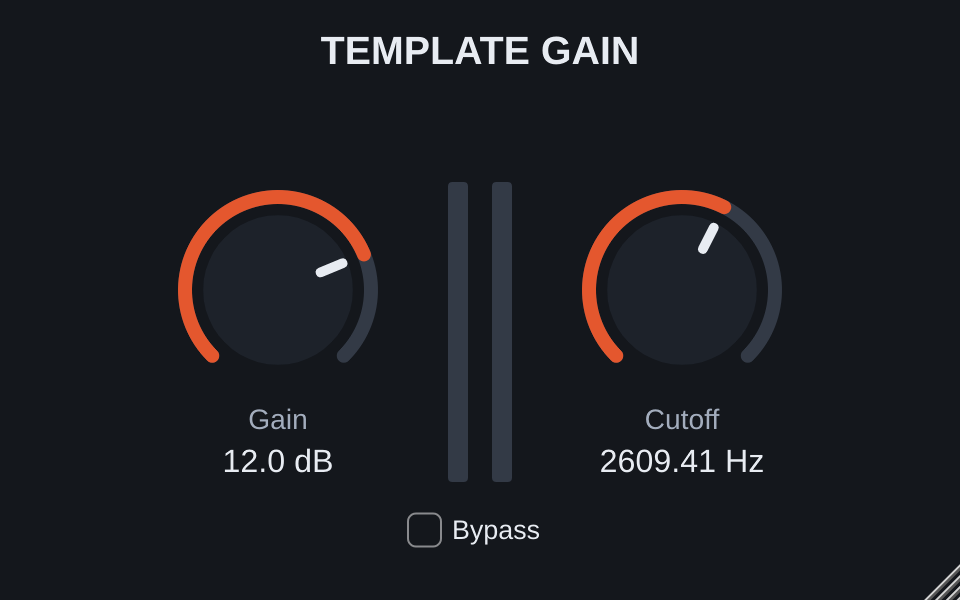
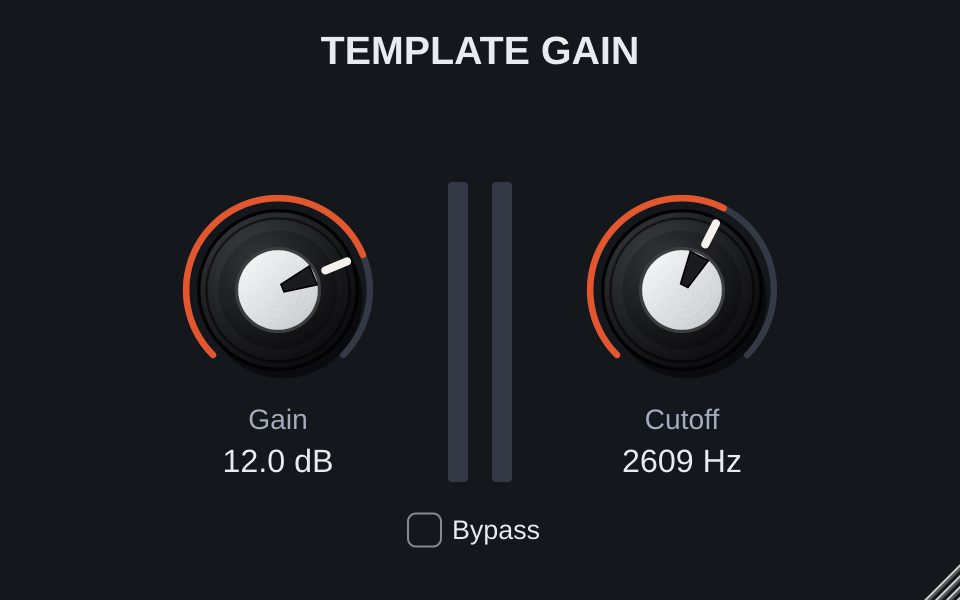
Skirted bakelite knob (HTML + JUCE), whole-number param formatting fix
Claude-Session: https://claude.ai/code/session_01SzB2qFQArXhuppk4rEBZ5Y

Changed region(s): [[0.1875, 0.3, 0.4062, 0.63], [0.5938, 0.3, 0.8125, 0.63], [0.625, 0.75, 0.8125, 0.81]]

diff --git a/ui/index.html b/ui/index.html
@@ -145,6 +145,9 @@ body.dragging #cables .hit,body.dragging #cables .plug{pointer-events:none}
   <defs>
     <radialGradient id="kSkirt" cx=".35" cy=".3" r=".9"><stop offset="0" stop-color="#3d3e43"/><stop offset=".6" stop-color="#18181a"/><stop offset="1" stop-color="#060607"/></radialGradient>
     <radialGradient id="kCap" cx=".38" cy=".3" r=".85"><stop offset="0" stop-color="#7d7e84"/><stop offset=".45" stop-color="#2b2b2e"/><stop offset="1" stop-color="#0a0a0b"/></radialGradient>
+    <radialGradient id="kBody" cx=".36" cy=".3" r=".95"><stop offset="0" stop-color="#34353a"/><stop offset=".55" stop-color="#141416"/><stop offset="1" stop-color="#050506"/></radialGradient>
+    <linearGradient id="kAl" x1="0" y1="0" x2="1" y2="1"><stop offset="0" stop-color="#f4f5f6"/><stop offset=".3" stop-color="#b9bcc1"/><stop offset=".55" stop-color="#e3e5e8"/><stop offset=".8" stop-color="#8d9096"/><stop offset="1" stop-color="#c9ccd0"/></linearGradient>
+    <linearGradient id="kWedge" x1="0" y1="0" x2="1" y2="0"><stop offset="0" stop-color="#050506"/><stop offset=".5" stop-color="#2a2b2f"/><stop offset="1" stop-color="#050506"/></linearGradient>
     <linearGradient id="nut" x1="0" y1="0" x2="1" y2="1"><stop offset="0" stop-color="#f3f5f6"/><stop offset=".5" stop-color="#899096"/><stop offset="1" stop-color="#d6dadd"/></linearGradient>
     <radialGradient id="hole" cx=".5" cy=".5" r=".5"><stop offset="0" stop-color="#000"/><stop offset=".72" stop-color="#0a0a0a"/><stop offset="1" stop-color="#40444a"/></radialGradient>
     <radialGradient id="chrome" cx=".35" cy=".3" r=".9"><stop offset="0" stop-color="#fff"/><stop offset=".5" stop-color="#a0a6ab"/><stop offset="1" stop-color="#4b4f54"/></radialGradient>
@@ -313,13 +316,21 @@ function knobSVG(k){
     const e = (deg,txt) => { const a=deg*Math.PI/180; return `<text class="kt" text-anchor="middle" dominant-baseline="central" x="${f2(Math.sin(a)*28.4)}" y="${f2(-Math.cos(a)*28.4)}">${txt}</text>`; };
     t += e(-135,'0') + e(135,'10');
   }
+  // Skirted bakelite knob: flared black skirt, brushed-aluminium cap, pointer wedge, white line down the skirt.
+  let brush = '';
+  for(const r of [2.2,3.6,5,6.4,7.8]) brush += `<circle r="${r}" fill="none" stroke="${r%2>1?'#fff':'#000'}" stroke-opacity=".10" stroke-width=".45"/>`;
   return `<svg viewBox="-31 -31 62 62" aria-hidden="true">${t}
     <circle cx="1.3" cy="2.2" r="19.5" fill="#000" opacity=".5"/>
-    <circle r="19.5" fill="url(#kSkirt)" stroke="#040405" stroke-width=".8"/>
-    <circle r="18" fill="none" stroke="#505156" stroke-width="2.3" stroke-dasharray="1.15 1.05" opacity=".95"/>
-    <circle r="14.4" fill="url(#kCap)" stroke="#000" stroke-width=".7"/>
-    <ellipse cx="-3.6" cy="-6.2" rx="7" ry="3.6" fill="#fff" opacity=".1"/>
-    <g class="ptr"><line x1="0" y1="-4.5" x2="0" y2="-14" stroke="#f7f3e5" stroke-width="2.1" stroke-linecap="round"/></g>
+    <circle r="19.5" fill="url(#kSkirt)" stroke="#020203" stroke-width=".8"/>
+    <circle r="17.6" fill="none" stroke="#000" stroke-opacity=".55" stroke-width=".6"/>
+    <path d="M-15.5 -10.5 A18.7 18.7 0 0 1 -4 -18" fill="none" stroke="#fff" stroke-opacity=".16" stroke-width="1.1" stroke-linecap="round"/>
+    <circle r="14.6" fill="url(#kBody)" stroke="#000" stroke-width=".7"/>
+    <circle r="10.2" fill="url(#kAl)" stroke="#3b3d41" stroke-width=".8"/>${brush}
+    <g class="ptr">
+      <line x1="0" y1="-12.6" x2="0" y2="-18.4" stroke="#f4f2ea" stroke-width="2" stroke-linecap="round"/>
+      <path d="M-2.5 -9.4 L2.5 -9.4 L1 -1.2 L-1 -1.2 Z" fill="url(#kWedge)" stroke="#000" stroke-width=".4"/>
+      <path d="M-.7 -8.6 L-.5 -2" stroke="#fff" stroke-opacity=".25" stroke-width=".5" stroke-linecap="round" fill="none"/>
+    </g>
   </svg>`;
 }
 function jackSVG(){

diff --git a/vst3/template/Source/PluginEditor.cpp b/vst3/template/Source/PluginEditor.cpp
@@ -8,33 +8,73 @@ using namespace tokens;
 void KnobLookAndFeel::drawRotarySlider (juce::Graphics& g, int x, int y, int w, int h, float pos,
                                         float startAngle, float endAngle, juce::Slider& s)
 {
+    // Skirted bakelite knob: flared black skirt, brushed-aluminium cap, pointer wedge,
+    // white indicator line running down the skirt. Proportions follow the 62-unit design grid.
     auto bounds = juce::Rectangle<float> ((float) x, (float) y, (float) w, (float) h).reduced (4.0f);
-    const float r = juce::jmin (bounds.getWidth(), bounds.getHeight()) * 0.5f;
+    const float R = juce::jmin (bounds.getWidth(), bounds.getHeight()) * 0.5f;
     const auto c = bounds.getCentre();
-    const float thick = r * 0.14f;
-    const float arcR = r - thick * 0.5f;
+    const float u = R / 24.6f;                         // 1 design unit in pixels
     const float angle = startAngle + pos * (endAngle - startAngle);
 
+    // value track just outside the skirt
+    const float trackR = 22.6f * u;
     juce::Path track, value;
-    track.addCentredArc (c.x, c.y, arcR, arcR, 0.0f, startAngle, endAngle, true);
-    value.addCentredArc (c.x, c.y, arcR, arcR, 0.0f, startAngle, angle, true);
+    track.addCentredArc (c.x, c.y, trackR, trackR, 0.0f, startAngle, endAngle, true);
+    value.addCentredArc (c.x, c.y, trackR, trackR, 0.0f, startAngle, angle, true);
     g.setColour (color_track);
-    g.strokePath (track, juce::PathStrokeType (thick, juce::PathStrokeType::curved, juce::PathStrokeType::rounded));
+    g.strokePath (track, juce::PathStrokeType (1.6f * u, juce::PathStrokeType::curved, juce::PathStrokeType::rounded));
     g.setColour (s.isEnabled() ? color_accent_main : color_accent_dim);
-    g.strokePath (value, juce::PathStrokeType (thick, juce::PathStrokeType::curved, juce::PathStrokeType::rounded));
+    g.strokePath (value, juce::PathStrokeType (1.6f * u, juce::PathStrokeType::curved, juce::PathStrokeType::rounded));
 
-    const float capR = r - thick * 1.8f;
-    g.setColour (color_bg_panel);
-    g.fillEllipse (c.x - capR, c.y - capR, capR * 2.0f, capR * 2.0f);
-    juce::Path tick;
-    tick.addRoundedRectangle (-thick * 0.35f, -capR, thick * 0.7f, capR * 0.45f, thick * 0.35f);
-    g.setColour (color_text_primary);
-    g.fillPath (tick, juce::AffineTransform::rotation (angle).translated (c.x, c.y));
+    auto disc = [&] (float r) { return juce::Rectangle<float> (c.x - r * u, c.y - r * u, 2 * r * u, 2 * r * u); };
+
+    g.setColour (juce::Colours::black.withAlpha (0.5f));                       // drop shadow
+    g.fillEllipse (disc (19.5f).translated (1.3f * u, 2.2f * u));
+
+    g.setGradientFill (juce::ColourGradient (juce::Colour (0xff3d3e43), c.x - 6 * u, c.y - 8 * u,
+                                             juce::Colour (0xff060607), c.x + 16 * u, c.y + 16 * u, true));
+    g.fillEllipse (disc (19.5f));                                              // skirt
+    g.setColour (juce::Colour (0xff020203));
+    g.drawEllipse (disc (19.5f), 0.8f * u);
+    g.setColour (juce::Colours::black.withAlpha (0.55f));
+    g.drawEllipse (disc (17.6f), 0.6f * u);                                    // flare edge
+
+    g.setGradientFill (juce::ColourGradient (juce::Colour (0xff34353a), c.x - 5 * u, c.y - 7 * u,
+                                             juce::Colour (0xff050506), c.x + 14 * u, c.y + 14 * u, true));
+    g.fillEllipse (disc (14.6f));                                              // upper body
+
+    g.setGradientFill (juce::ColourGradient (juce::Colour (0xfff4f5f6), c.x - 8 * u, c.y - 8 * u,
+                                             juce::Colour (0xffc9ccd0), c.x + 8 * u, c.y + 8 * u, false));
+    g.fillEllipse (disc (10.2f));                                              // aluminium cap
+    g.setColour (juce::Colour (0xff3b3d41));
+    g.drawEllipse (disc (10.2f), 0.8f * u);
+    for (float r : { 2.2f, 3.6f, 5.0f, 6.4f, 7.8f })                           // brushed rings
+    {
+        g.setColour (juce::Colours::white.withAlpha (0.10f));
+        g.drawEllipse (disc (r), 0.45f * u);
+    }
+
+    // rotating parts: indicator line on the skirt and the pointer wedge on the cap
+    const auto rot = juce::AffineTransform::rotation (angle).translated (c.x, c.y);
+    juce::Path line, wedge;
+    line.startNewSubPath (0.0f, -12.6f * u);
+    line.lineTo (0.0f, -18.4f * u);
+    g.setColour (juce::Colour (0xfff4f2ea));
+    g.strokePath (line, juce::PathStrokeType (2.0f * u, juce::PathStrokeType::curved, juce::PathStrokeType::rounded), rot);
+    wedge.startNewSubPath (-2.5f * u, -9.4f * u);
+    wedge.lineTo (2.5f * u, -9.4f * u);
+    wedge.lineTo (1.0f * u, -1.2f * u);
+    wedge.lineTo (-1.0f * u, -1.2f * u);
+    wedge.closeSubPath();
+    g.setColour (juce::Colour (0xff1a1b1e));
+    g.fillPath (wedge, rot);
+    g.setColour (juce::Colours::black);
+    g.strokePath (wedge, juce::PathStrokeType (0.4f * u), rot);
 
     if (s.hasKeyboardFocus (false))
     {
         g.setColour (color_accent_main);
-        g.drawEllipse (c.x - r, c.y - r, r * 2.0f, r * 2.0f, 1.5f);
+        g.drawEllipse (disc (24.0f), 1.5f);
     }
 }
 

diff --git a/vst3/tools/vst3_gen.py b/vst3/tools/vst3_gen.py
@@ -103,11 +103,13 @@ def gen_params(spec):
             unit = p.get("unit", "")
             step = p.get("step", 0.0)
             dec = int(p.get("decimals", 1))
+            # juce::String (float, 0) means "default precision", so whole numbers need roundToInt
+            fmt = "juce::String (juce::roundToInt (v))" if dec == 0 else f"juce::String (v, {dec})"
             adds.append(
                 f"    layout.add (std::make_unique<juce::AudioParameterFloat> ({pidexpr}, \"{name}\",\n"
                 f"        juce::NormalisableRange<float> ({lo}f, {hi}f, {step}f, {skew}f), {df}f,\n"
                 f"        juce::AudioParameterFloatAttributes().withLabel (\"{unit}\")\n"
-                f"            .withStringFromValueFunction ([] (float v, int) {{ return juce::String (v, {dec}); }})));")
+                f"            .withStringFromValueFunction ([] (float v, int) {{ return {fmt}; }})));")
         elif t == "bool":
             adds.append(f"    layout.add (std::make_unique<juce::AudioParameterBool> ({pidexpr}, \"{name}\", {str(bool(p.get('default', False))).lower()}));")
         elif t == "choice":

diff --git a/design/UI_AGENTS_MASTER_PROMPT.md b/design/UI_AGENTS_MASTER_PROMPT.md
@@ -1092,11 +1092,13 @@ def gen_params(spec):
             unit = p.get("unit", "")
             step = p.get("step", 0.0)
             dec = int(p.get("decimals", 1))
+            # juce::String (float, 0) means "default precision", so whole numbers need roundToInt
+            fmt = "juce::String (juce::roundToInt (v))" if dec == 0 else f"juce::String (v, {dec})"
             adds.append(
                 f"    layout.add (std::make_unique<juce::AudioParameterFloat> ({pidexpr}, \"{name}\",\n"
                 f"        juce::NormalisableRange<float> ({lo}f, {hi}f, {step}f, {skew}f), {df}f,\n"
                 f"        juce::AudioParameterFloatAttributes().withLabel (\"{unit}\")\n"
-                f"            .withStringFromValueFunction ([] (float v, int) {{ return juce::String (v, {dec}); }})));")
+                f"            .withStringFromValueFunction ([] (float v, int) {{ return {fmt}; }})));")
         elif t == "bool":
             adds.append(f"    layout.add (std::make_unique<juce::AudioParameterBool> ({pidexpr}, \"{name}\", {str(bool(p.get('default', False))).lower()}));")
         elif t == "choice":
@@ -1529,33 +1531,73 @@ using namespace tokens;
 void KnobLookAndFeel::drawRotarySlider (juce::Graphics& g, int x, int y, int w, int h, float pos,
                                         float startAngle, float endAngle, juce::Slider& s)
 {
+    // Skirted bakelite knob: flared black skirt, brushed-aluminium cap, pointer wedge,
+    // white indicator line running down the skirt. Proportions follow the 62-unit design grid.
     auto bounds = juce::Rectangle<float> ((float) x, (float) y, (float) w, (float) h).reduced (4.0f);
-    const float r = juce::jmin (bounds.getWidth(), bounds.getHeight()) * 0.5f;
+    const float R = juce::jmin (bounds.getWidth(), bounds.getHeight()) * 0.5f;
     const auto c = bounds.getCentre();
-    const float thick = r * 0.14f;
-    const float arcR = r - thick * 0.5f;
+    const float u = R / 24.6f;                         // 1 design unit in pixels
     const float angle = startAngle + pos * (endAngle - startAngle);
 
+    // value track just outside the skirt
+    const float trackR = 22.6f * u;
     juce::Path track, value;
-    track.addCentredArc (c.x, c.y, arcR, arcR, 0.0f, startAngle, endAngle, true);
-    value.addCentredArc (c.x, c.y, arcR, arcR, 0.0f, startAngle, angle, true);
+    track.addCentredArc (c.x, c.y, trackR, trackR, 0.0f, startAngle, endAngle, true);
+    value.addCentredArc (c.x, c.y, trackR, trackR, 0.0f, startAngle, angle, true);
     g.setColour (color_track);
-    g.strokePath (track, juce::PathStrokeType (thick, juce::PathStrokeType::curved, juce::PathStrokeType::rounded));
+    g.strokePath (track, juce::PathStrokeType (1.6f * u, juce::PathStrokeType::curved, juce::PathStrokeType::rounded));
     g.setColour (s.isEnabled() ? color_accent_main : color_accent_dim);
-    g.strokePath (value, juce::PathStrokeType (thick, juce::PathStrokeType::curved, juce::PathStrokeType::rounded));
+    g.strokePath (value, juce::PathStrokeType (1.6f * u, juce::PathStrokeType::curved, juce::PathStrokeType::rounded));
 
-    const float capR = r - thick * 1.8f;
-    g.setColour (color_bg_panel);
-    g.fillEllipse (c.x - capR, c.y - capR, capR * 2.0f, capR * 2.0f);
-    juce::Path tick;
-    tick.addRoundedRectangle (-thick * 0.35f, -capR, thick * 0.7f, capR * 0.45f, thick * 0.35f);
-    g.setColour (color_text_primary);
-    g.fillPath (tick, juce::AffineTransform::rotation (angle).translated (c.x, c.y));
+    auto disc = [&] (float r) { return juce::Rectangle<float> (c.x - r * u, c.y - r * u, 2 * r * u, 2 * r * u); };
+
+    g.setColour (juce::Colours::black.withAlpha (0.5f));                       // drop shadow
+    g.fillEllipse (disc (19.5f).translated (1.3f * u, 2.2f * u));
+
+    g.setGradientFill (juce::ColourGradient (juce::Colour (0xff3d3e43), c.x - 6 * u, c.y - 8 * u,
+                                             juce::Colour (0xff060607), c.x + 16 * u, c.y + 16 * u, true));
+    g.fillEllipse (disc (19.5f));                                              // skirt
+    g.setColour (juce::Colour (0xff020203));
+    g.drawEllipse (disc (19.5f), 0.8f * u);
+    g.setColour (juce::Colours::black.withAlpha (0.55f));
+    g.drawEllipse (disc (17.6f), 0.6f * u);                                    // flare edge
+
+    g.setGradientFill (juce::ColourGradient (juce::Colour (0xff34353a), c.x - 5 * u, c.y - 7 * u,
+                                             juce::Colour (0xff050506), c.x + 14 * u, c.y + 14 * u, true));
+    g.fillEllipse (disc (14.6f));                                              // upper body
+
+    g.setGradientFill (juce::ColourGradient (juce::Colour (0xfff4f5f6), c.x - 8 * u, c.y - 8 * u,
+                                             juce::Colour (0xffc9ccd0), c.x + 8 * u, c.y + 8 * u, false));
+    g.fillEllipse (disc (10.2f));                                              // aluminium cap
+    g.setColour (juce::Colour (0xff3b3d41));
+    g.drawEllipse (disc (10.2f), 0.8f * u);
+    for (float r : { 2.2f, 3.6f, 5.0f, 6.4f, 7.8f })                           // brushed rings
+    {
+        g.setColour (juce::Colours::white.withAlpha (0.10f));
+        g.drawEllipse (disc (r), 0.45f * u);
+    }
+
+    // rotating parts: indicator line on the skirt and the pointer wedge on the cap
+    const auto rot = juce::AffineTransform::rotation (angle).translated (c.x, c.y);
+    juce::Path line, wedge;
+    line.startNewSubPath (0.0f, -12.6f * u);
+    line.lineTo (0.0f, -18.4f * u);
+    g.setColour (juce::Colour (0xfff4f2ea));
+    g.strokePath (line, juce::PathStrokeType (2.0f * u, juce::PathStrokeType::curved, juce::PathStrokeType::rounded), rot);
+    wedge.startNewSubPath (-2.5f * u, -9.4f * u);
+    wedge.lineTo (2.5f * u, -9.4f * u);
+    wedge.lineTo (1.0f * u, -1.2f * u);
+    wedge.lineTo (-1.0f * u, -1.2f * u);
+    wedge.closeSubPath();
+    g.setColour (juce::Colour (0xff1a1b1e));
+    g.fillPath (wedge, rot);
+    g.setColour (juce::Colours::black);
+    g.strokePath (wedge, juce::PathStrokeType (0.4f * u), rot);
 
     if (s.hasKeyboardFocus (false))
     {
         g.setColour (color_accent_main);
-        g.drawEllipse (c.x - r, c.y - r, r * 2.0f, r * 2.0f, 1.5f);
+        g.drawEllipse (disc (24.0f), 1.5f);
     }
 }
 
@@ -1780,7 +1822,7 @@ inline juce::AudioProcessorValueTreeState::ParameterLayout createLayout()
     layout.add (std::make_unique<juce::AudioParameterFloat> (juce::ParameterID { ids::cutoff, 1 }, "Cutoff",
         juce::NormalisableRange<float> (20.0f, 20000.0f, 0.0f, 0.25f), 20000.0f,
         juce::AudioParameterFloatAttributes().withLabel ("Hz")
-            .withStringFromValueFunction ([] (float v, int) { return juce::String (v, 0); })));
+            .withStringFromValueFunction ([] (float v, int) { return juce::String (juce::roundToInt (v)); })));
     layout.add (std::make_unique<juce::AudioParameterBool> (juce::ParameterID { ids::bypass, 1 }, "Bypass", false));
     return layout;
 }

diff --git a/design/knobs/SKIRTED_KNOB.md b/design/knobs/SKIRTED_KNOB.md
@@ -1,0 +1,12 @@
+# Skirted bakelite knob (Mick's chosen knob style)
+
+Reference supplied by Mick: black flared skirt, brushed-aluminium cap, pointer wedge, white indicator line running down the skirt.
+
+Layers, on a 62-unit grid (centre 0,0), bottom to top:
+1. Drop shadow: r19.5 black 50% offset (1.3, 2.2)
+2. Skirt: r19.5, radial gradient #3d3e43 to #060607, stroke #020203; flare edge ring r17.6; soft top-left highlight arc
+3. Upper body: r14.6, radial gradient #34353a to #050506
+4. Aluminium cap: r10.2, linear gradient #f4f5f6 / #b9bcc1 / #e3e5e8 / #8d9096, stroke #3b3d41; 5 brushed rings (r2.2 to 7.8, 10% white or black)
+5. Rotating: white line (#f4f2ea, width 2) from r12.6 to r18.4 on the skirt; dark wedge from r9.4 down to r1.2 on the cap
+
+Implementations: `ui/index.html` (`knobSVG`), `vst3/template/Source/PluginEditor.cpp` (`KnobLookAndFeel::drawRotarySlider`). Keep them in step. Agents: when a design uses knobs and no other style is specified, use this one.
